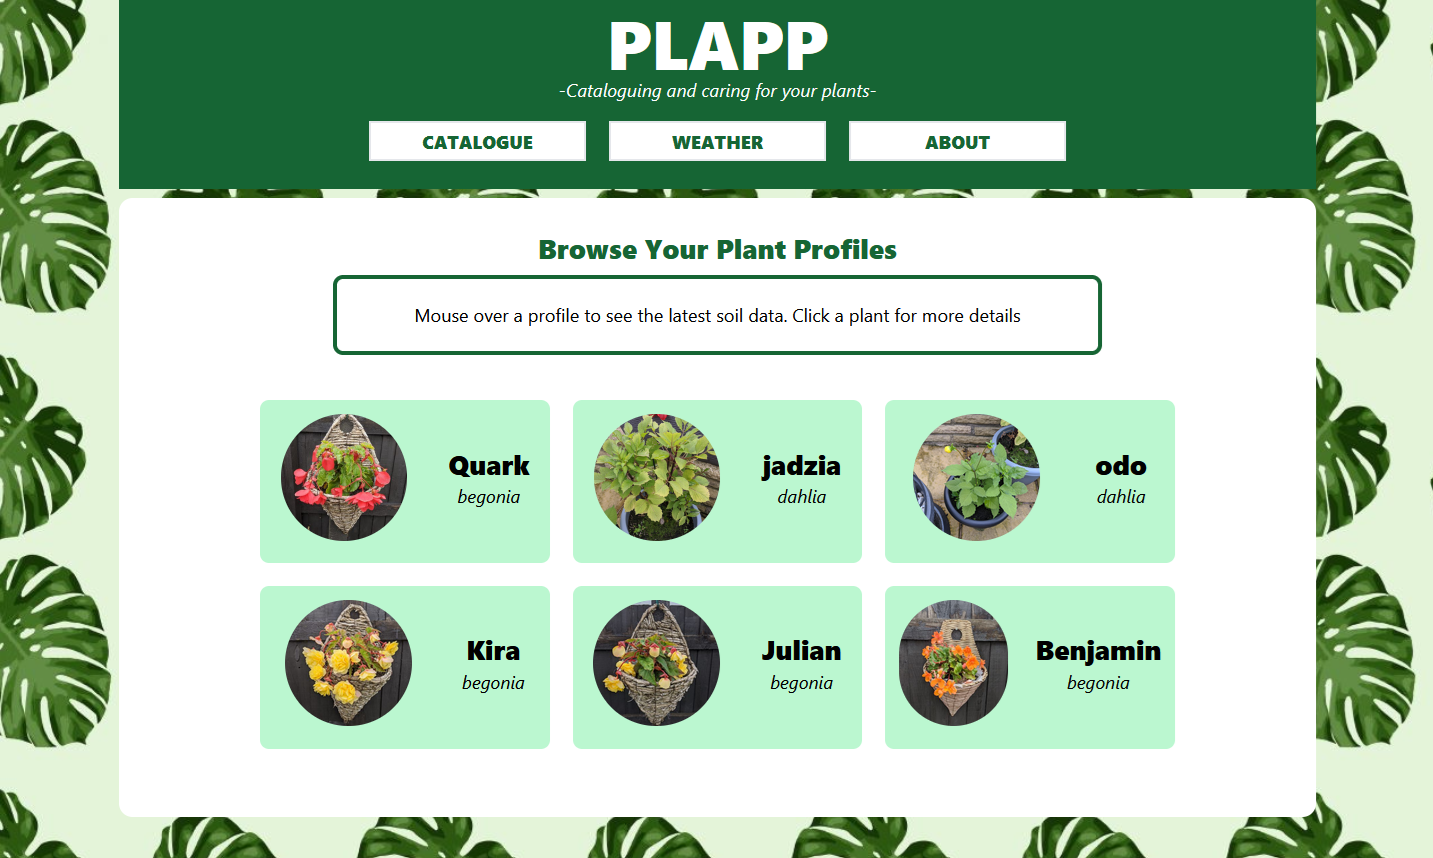
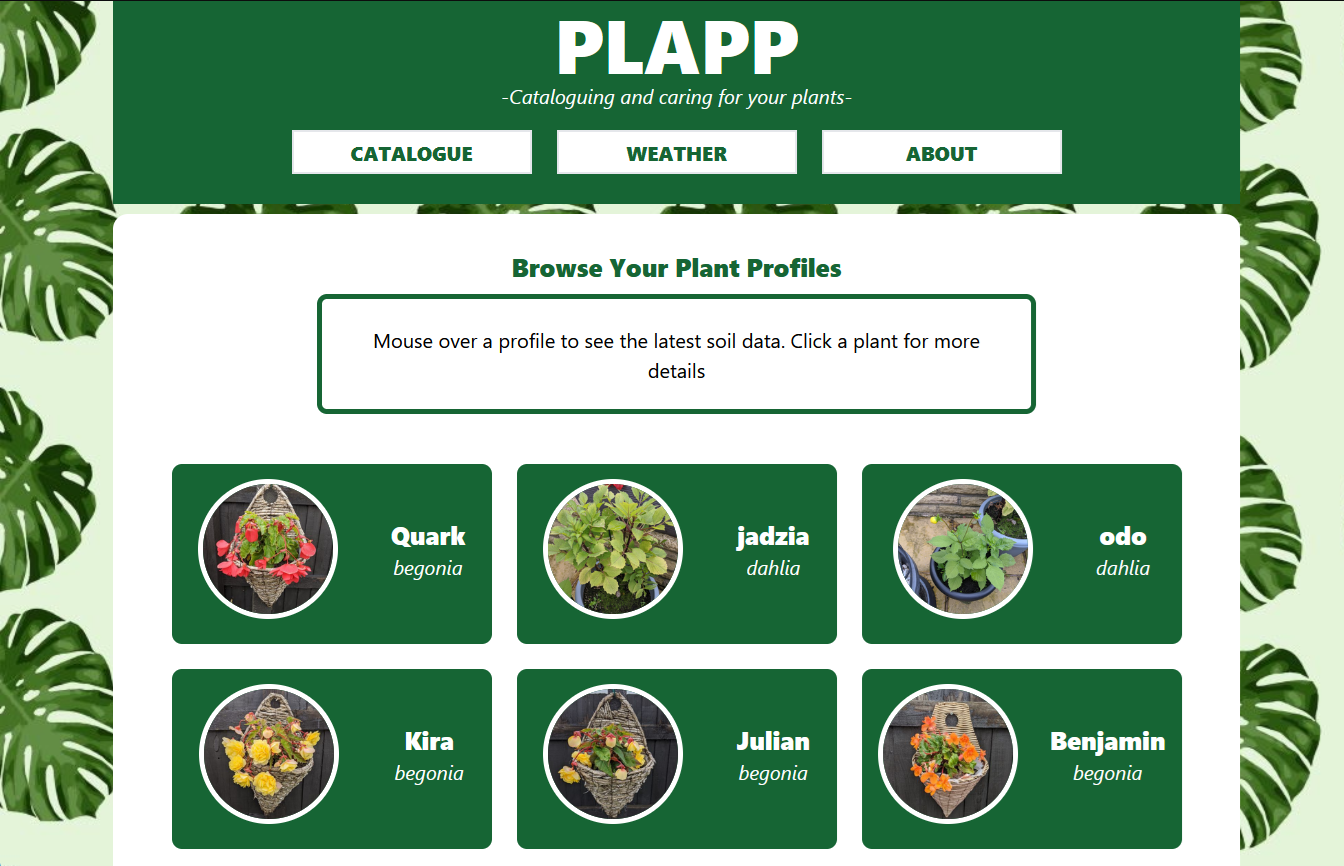
typos

diff --git a/app/page.js b/app/page.js
@@ -8,9 +8,9 @@ export default function page() {
       <Title variant='secondary' className={" text-green-800 p-2"} content= { "Project overview"}></Title>
       <div className='flex flex-col flex-wrap items-center w-5/6'>
         <ParagraphBox>This project is a full stack web IoT app that tracks the moisture content of plants.
-The front end is built with react and tailwind CSS and the back end is split between next.js and node red.
-Node red interacts both the PostgreSQL database that holds the plant profiles and soil data, it also acts as an MQTT client listening to “the things network” MQTT broker that the soil sensor broadcasts to.
-Node red provides an API for next JS to query to render the plant profile pages.</ParagraphBox> 
+The front end is built with react and tailwind CSS and the back end is split between Next.js and a Node red server.
+The Node red server acts as an MQTT client which parses and stores soil sensor broadcasts relayed to it by The Things Network MQTT broker.
+The Node red server also provides API end points which are queried by the app to generate each plants profile page.</ParagraphBox> 
       <img className = "w-5/6"src = "/assets/graphics/stackdiagram.png"/>
       <img className = "w-5/6"src = "/assets/graphics/lorawan.png"/>
 

diff --git a/components/PlantCardDetails.jsx b/components/PlantCardDetails.jsx
@@ -18,8 +18,8 @@ const [objectIsHovered,setObjectIsHovered] = useState(false)
         <DisplayPic imagePath = {plant.plant_pic_url} className={"m-3"} />
         
                 <div className='flex flex-col justify-center items-center m-3'>
-                    <Title variant='secondary' content = {plant.plant_name} className={""}/>
-                    <Title variant = "subTitle" content = {plant.plant_breed}/>
+                    <Title variant='secondary' content = {plant.plant_name} className={"text-white"}/>
+                    <Title variant = "subTitle" content = {plant.plant_breed} className={"text-white"}/>
                 </div>
                 
                     <div className={`flex flex-col items-center justify-center absolute w-64 h-36 bg-opacity-80 backdrop-blur-sm bg-green-100 mt-2 z-10 rounded-lg transition-opacity duration-200 ${objectIsHovered ? 'opacity-100' : 'opacity-0'}`}>

diff --git a/app/plantdash/[plant]/page.js b/app/plantdash/[plant]/page.js
@@ -37,9 +37,9 @@ export default async function Page({params}) {
         <ParagraphBox className={"m-auto"}>
         <Title content={plantName}/>
         {plantName} has been monitored since: {firstMonitored}.<br/>
-        The avergage moisture content of their soil since then is: {averageMoisture.toFixed(0)}%<br/>
+        The average moisture content of their soil since then is: {averageMoisture.toFixed(0)}%<br/>
         <br/>
-        Their 7 most recent data points taken for {plantName} are displayed on the accompanying graph.
+        The 7 most recent data points taken for {plantName} are displayed on the accompanying graph.
 
         <br/>
 

diff --git a/components/Title.jsx b/components/Title.jsx
@@ -3,8 +3,8 @@ import React from 'react'
 export default function Title({variant = "secondary",content,className,...props}) {
   const variants ={
     "primary" : "font-extrabold justify-center text-white text-6xl",
-    "secondary" : "font-extrabold justify-center text-2xl",
-    "subTitle" : "text-center italic "
+    "secondary" : "font-extrabold justify-center text-xl",
+    "subTitle" : "text-center italic text"
   }
   return (
     <h2 className= {` ${variants[variant]} ${className}`}{...props}>{content}</h2>

diff --git a/components/DisplayPic.jsx b/components/DisplayPic.jsx
@@ -2,6 +2,6 @@ import React from 'react'
 
 export default function DisplayPic({imagePath,className}) {
   return (
-    <img src = {imagePath} className ={ `rounded-full object-cover w-28 h-28 ${className}`} />
+    <img src = {imagePath} className ={ `rounded-full object-cover w-28 h-28 border-white border-4 ${className}`} />
   )
 }

diff --git a/components/Card.jsx b/components/Card.jsx
@@ -4,7 +4,7 @@ import React from 'react'
 
 export default function Card({children,...props}) {
   return (
-    <div {...props} className='w-64 h-36 bg-green-200 rounded-lg '>
+    <div {...props} className='w-64 h-36 bg-green-800 rounded-lg '>
       {children}
     
     </div>
